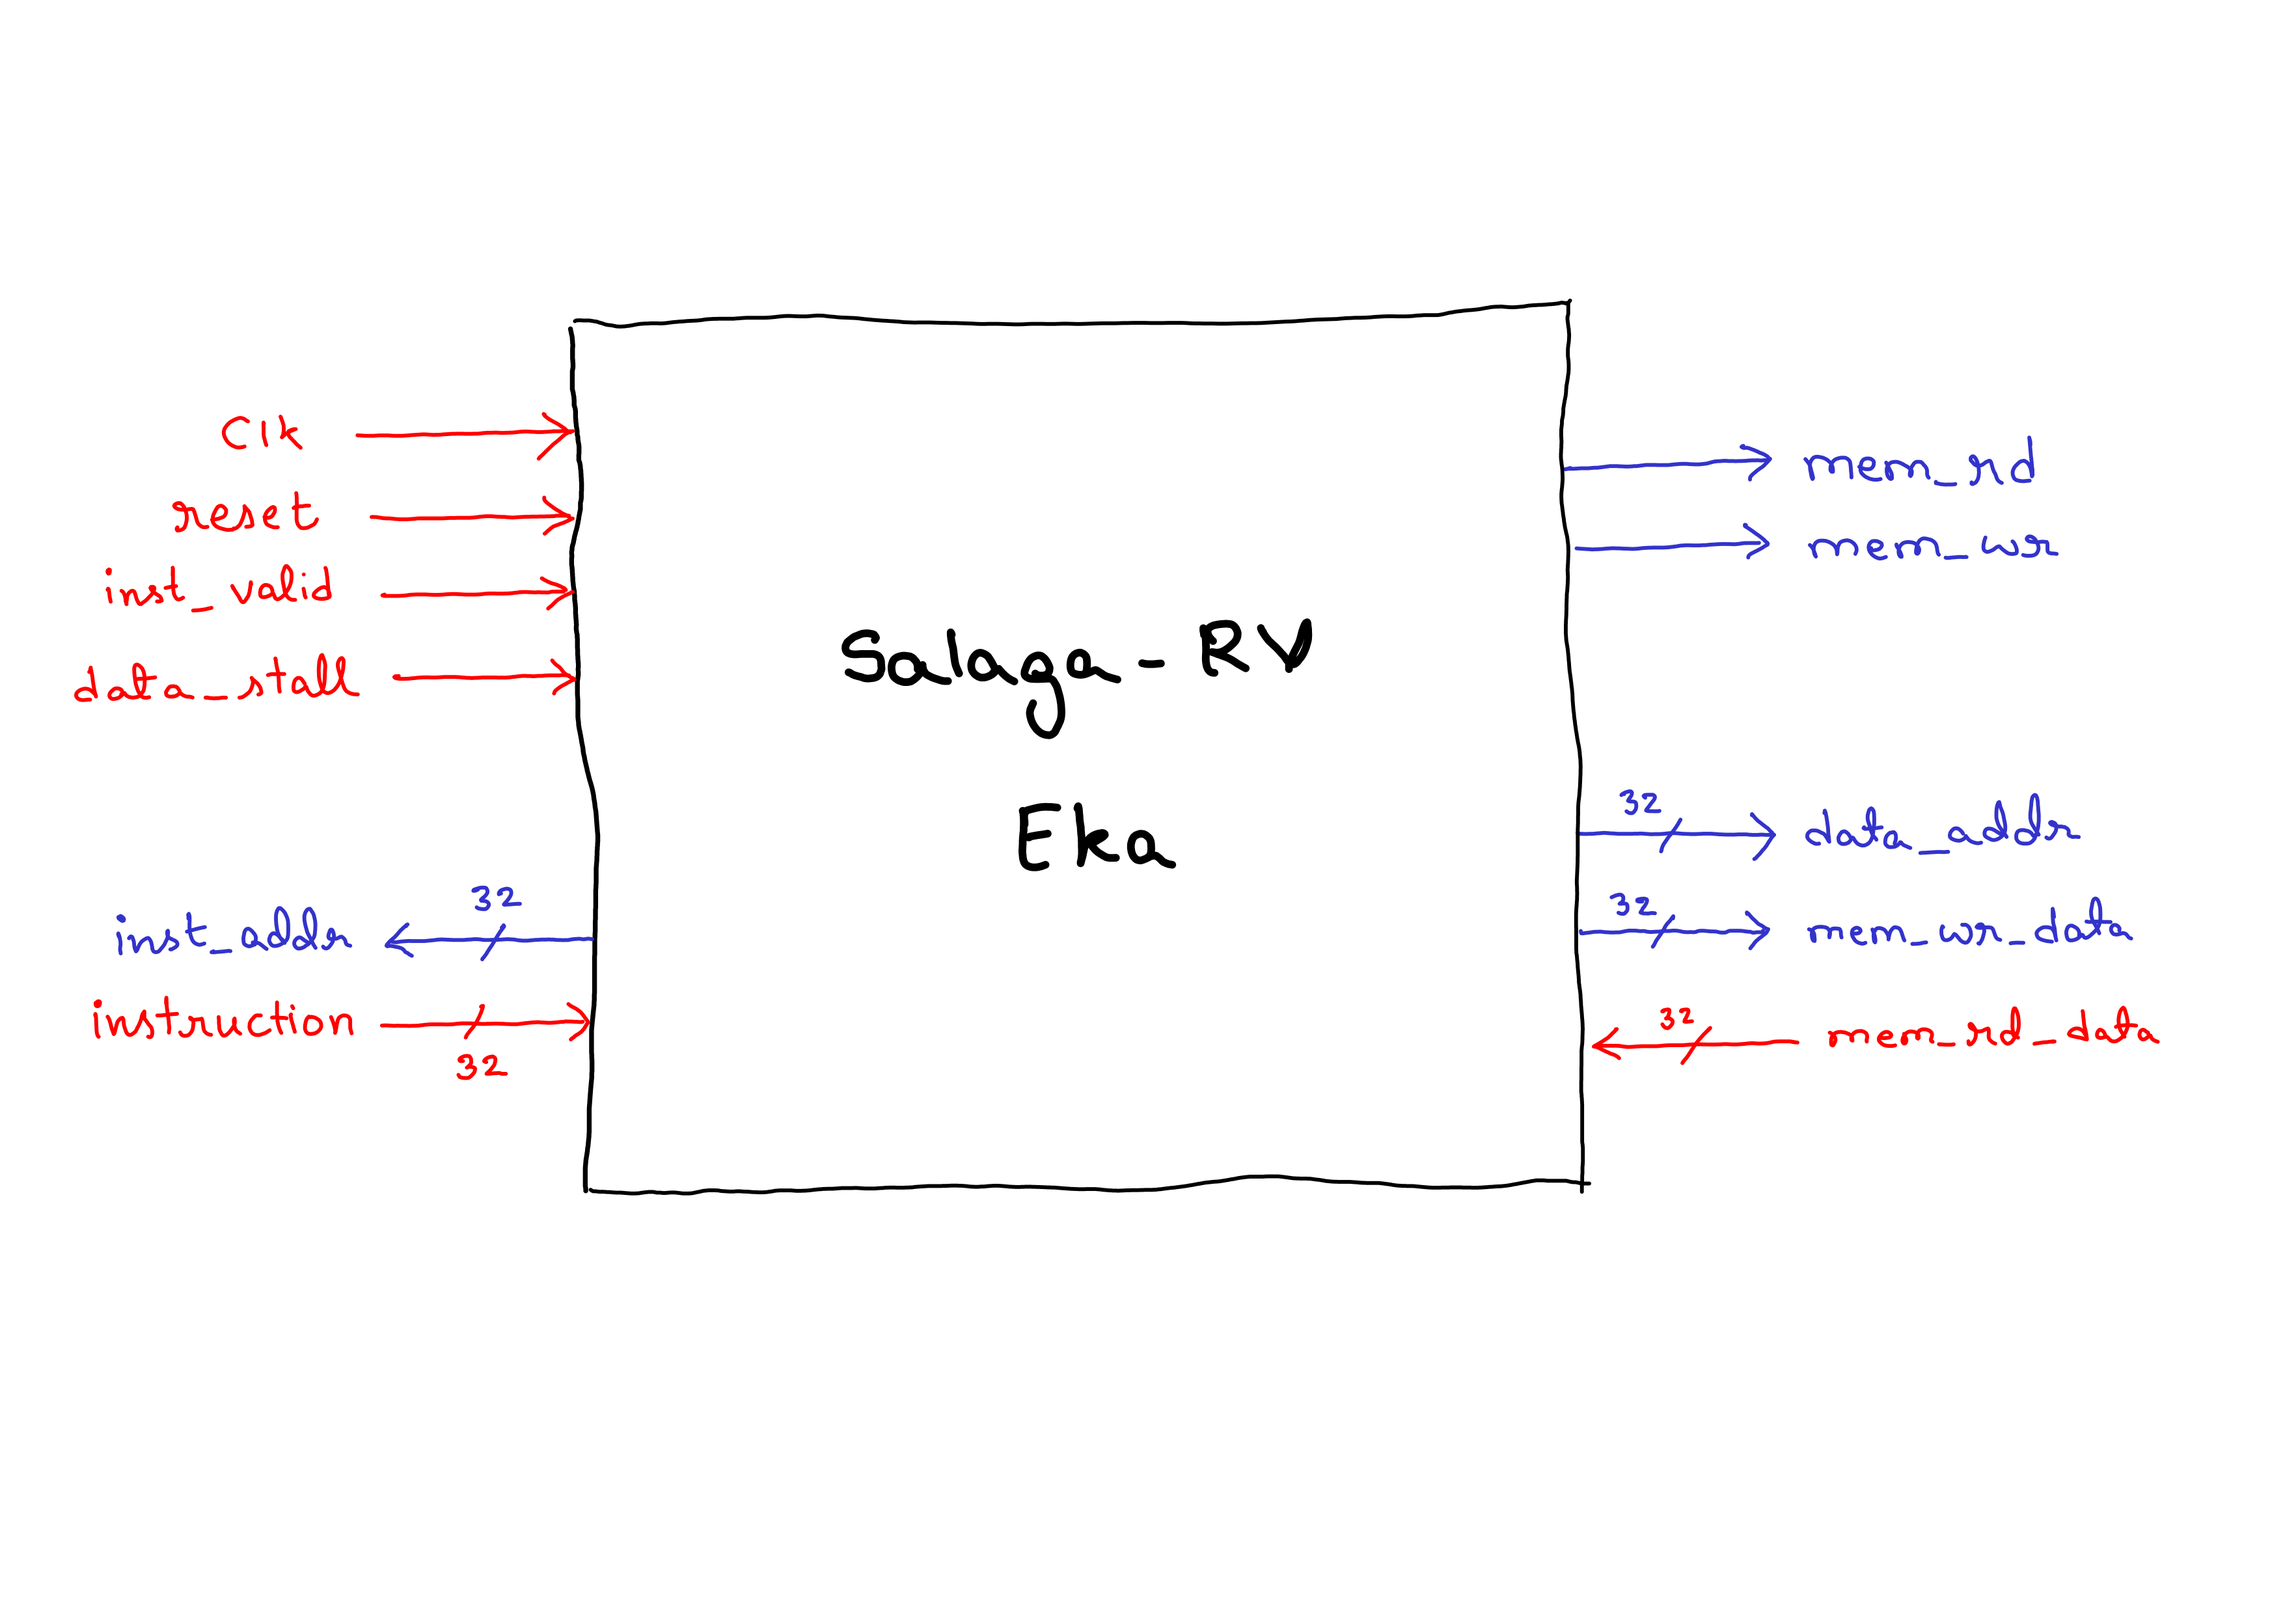
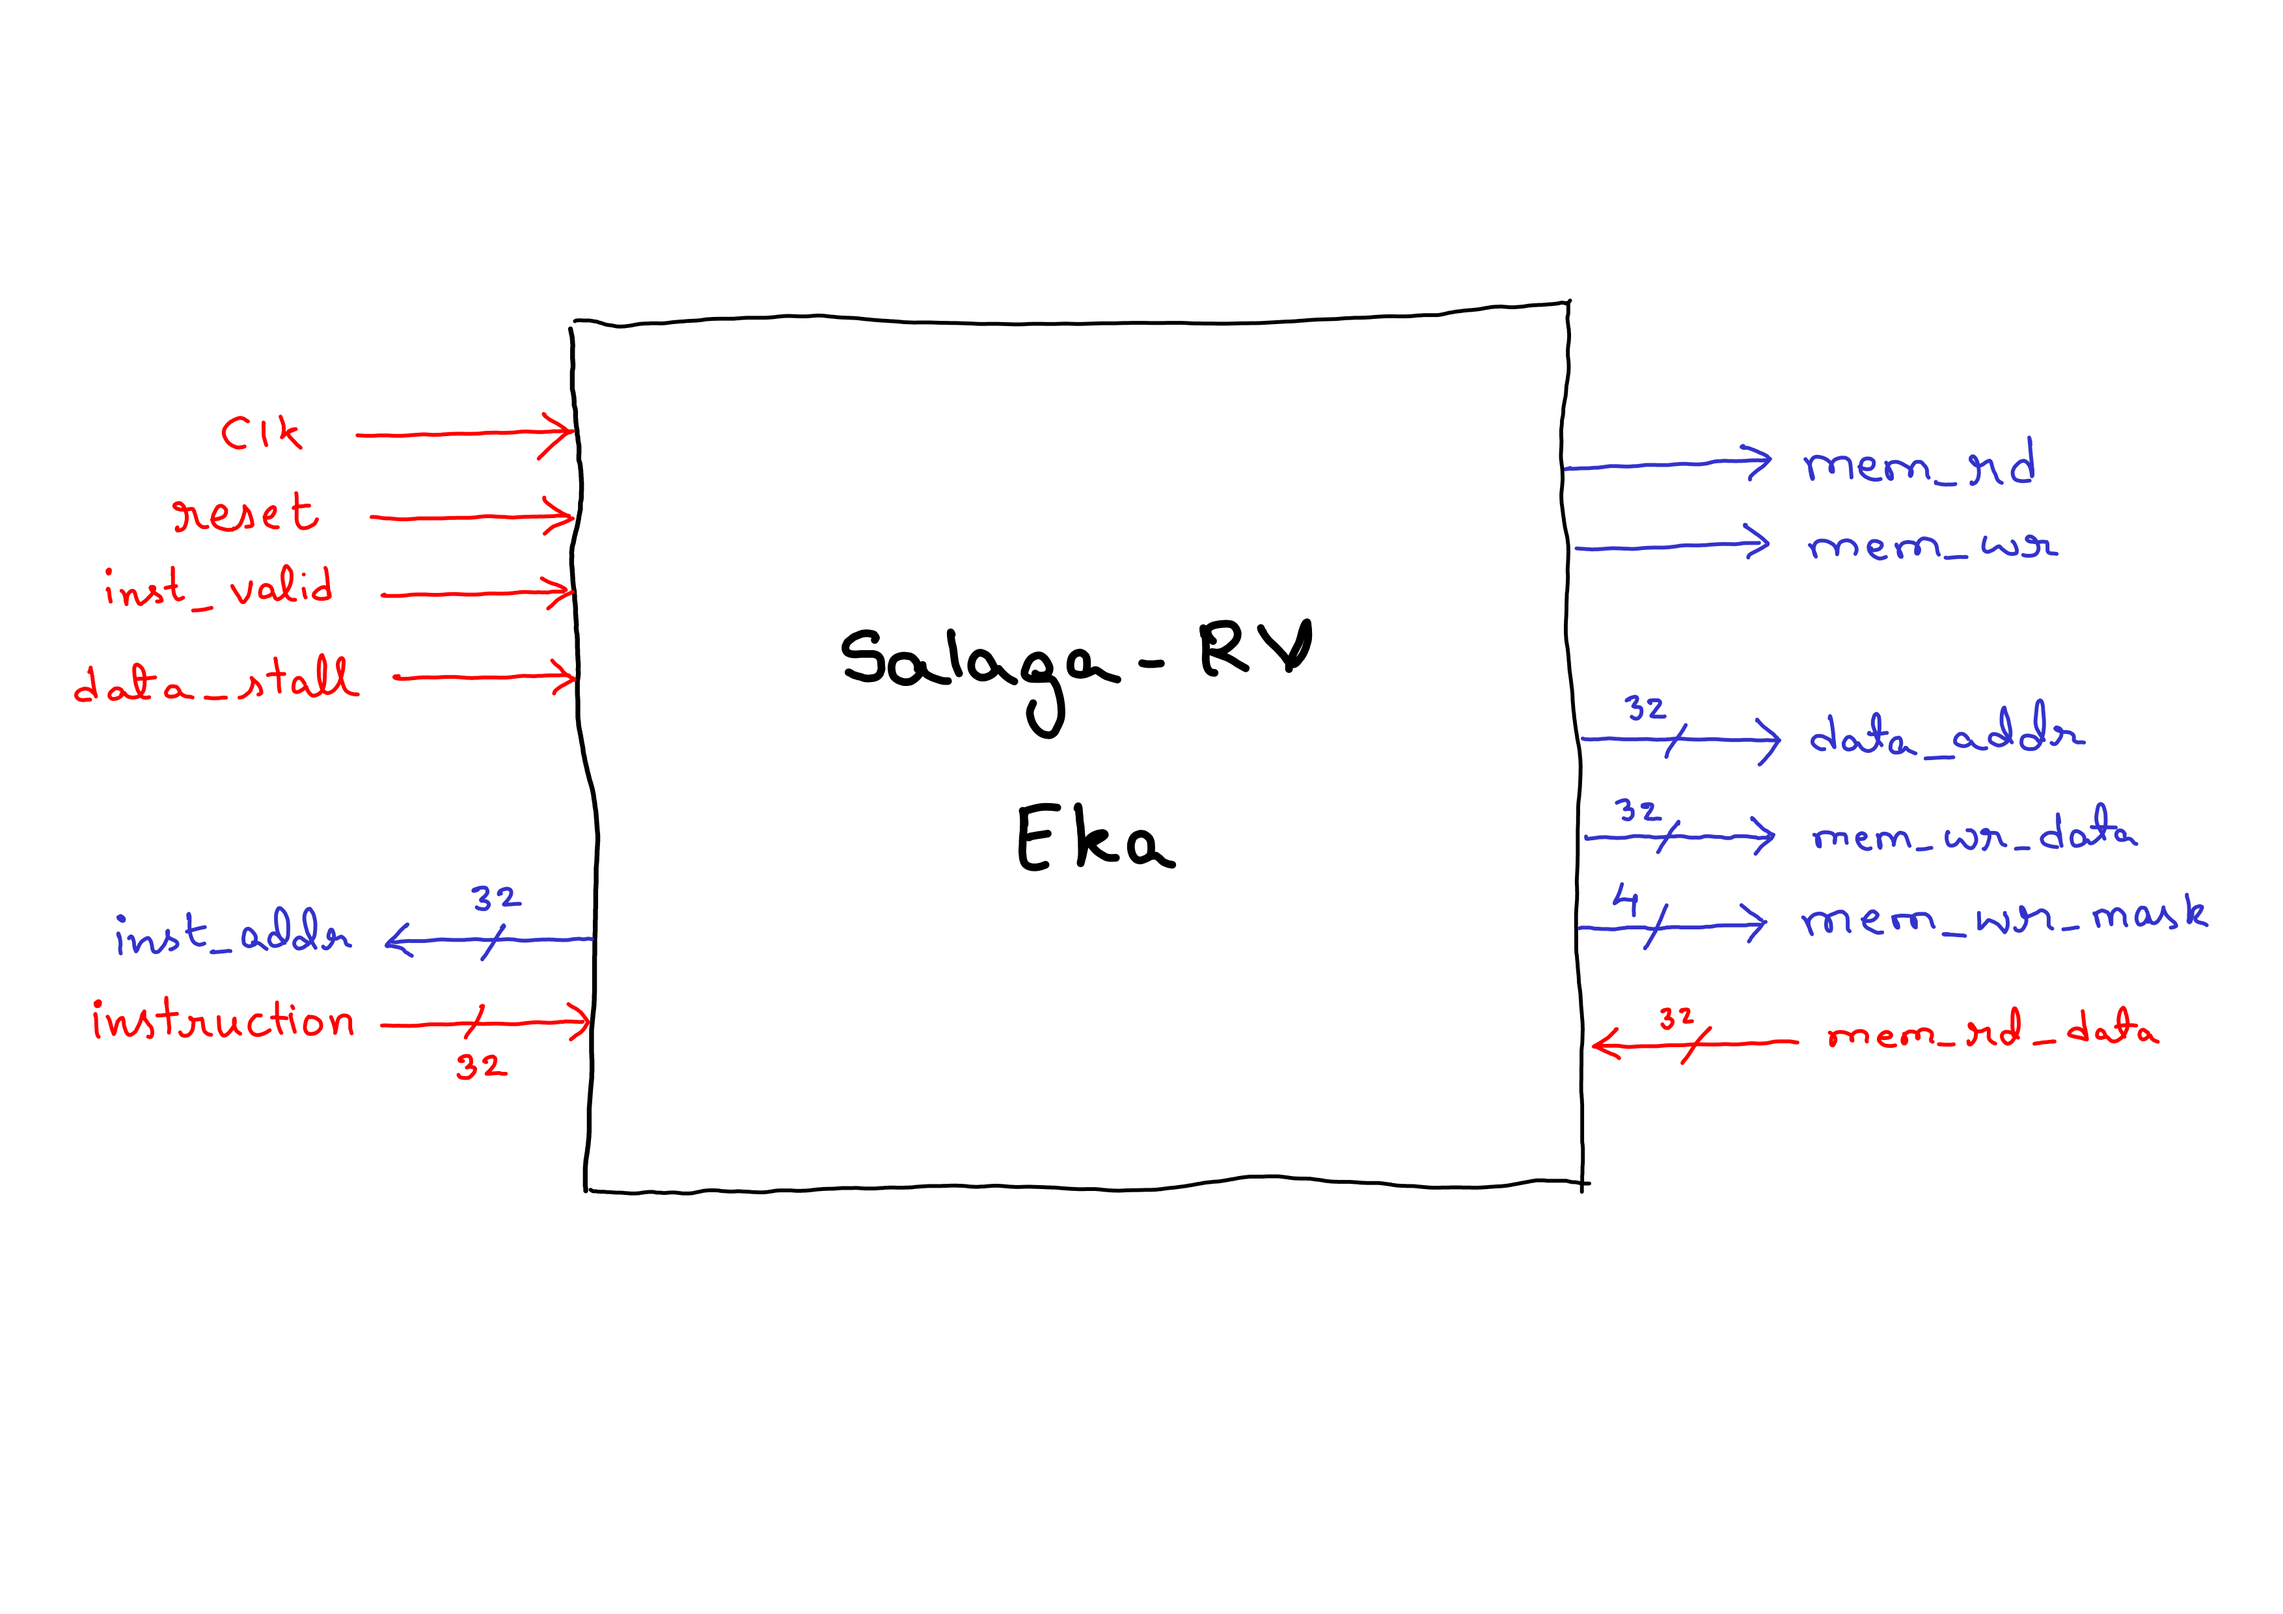
Add support for SH, and SB instructions
Added support for SH, and SB instructions.
Added a mem_wr_mask output for the CPU. Also, updated
the Memory_controller to update memory based on this
mask.

Added a simple test case in sim/src/main_sim.cpp

diff --git a/cores/Eka/sim/src/memory_controller.cpp b/cores/Eka/sim/src/memory_controller.cpp
@@ -79,11 +79,21 @@ bool Memory_controller::l1_data_cache_access(unsigned int data_addr,
 }
 
 bool Memory_controller::l1_data_cache_update(unsigned int data_addr,
-					     unsigned int mem_wr_data)
+					     unsigned int mem_wr_data,
+					     unsigned short int mem_wr_mask)
 {
 	if (this->l1_data_cache) {
 		if (data_addr/4 < this->l1_data_cache_size_in_words) {
-			this->l1_data_cache[data_addr/4] = mem_wr_data;
+			// depending on the mask, we will have to update
+			// the memory.
+			if ((mem_wr_mask & 0x1) == 0x1)
+				this->l1_data_cache[data_addr/4] = (this->l1_data_cache[data_addr/4] & 0xffffff00) | (mem_wr_data & 0x000000ff);
+			if ((mem_wr_mask & 0x2) == 0x2)
+				this->l1_data_cache[data_addr/4] = (this->l1_data_cache[data_addr/4] & 0xffff00ff) | (mem_wr_data & 0x0000ff00);
+			if ((mem_wr_mask & 0x4) == 0x4)
+				this->l1_data_cache[data_addr/4] = (this->l1_data_cache[data_addr/4] & 0xff00ffff) | (mem_wr_data & 0x00ff0000);
+			if ((mem_wr_mask & 0x8) == 0x8)
+				this->l1_data_cache[data_addr/4] = (this->l1_data_cache[data_addr/4] & 0x00ffffff) | (mem_wr_data & 0xff000000);
 		}
 		else {
 		        printf("Data address out of bound:\n");

diff --git a/cores/Eka/sim/src/main_sim.cpp b/cores/Eka/sim/src/main_sim.cpp
@@ -32,9 +32,12 @@ int main(int argc, char **argv)
 	l1_inst_cache[18] = 0b00000010101100000010001000100011; // SW rs2(11) rs1(0) 36 // expect 12288
 	l1_inst_cache[19] = 0b00000000000000000100001000010111; // AUIPC rd(4) 4
 
-	l1_inst_cache[20] = 0b00000000100000000000000011101111; // JAL rd(0) 8
-	l1_inst_cache[21] = 0b00000000000000000000000000000000; // NOP
-	l1_inst_cache[22] = 0b11111101010000001000010001100111; // JALR rd(0) -20
+	l1_inst_cache[20] = 0b00000010001100000000100110100011; // SB rs2(3) rs1(0) 51
+	l1_inst_cache[21] = 0b00000010001100000001101100100011; // SH rs2(3) rs1(0) 54
+
+	l1_inst_cache[22] = 0b00000000100000000000000011101111; // JAL rd(0) 8
+	l1_inst_cache[23] = 0b00000000000000000000000000000000; // NOP
+	l1_inst_cache[24] = 0b11111101010000001000010001100111; // JALR rd(8) -44(rs1(1)) // 1 holds 92. 92 minus 44 is 48, so 12 inst behind.
 
 	unsigned int* l1_data_cache = new unsigned int[4096];
 

diff --git a/cores/Eka/sim/include/cpu.h b/cores/Eka/sim/include/cpu.h
@@ -29,6 +29,7 @@ private:
 	unsigned int inst_addr;
 	unsigned int data_addr;
 	unsigned int mem_wr_data;
+	unsigned short int mem_wr_mask;
 	unsigned short int mem_wr;
 	unsigned short int mem_rd;
 
@@ -97,7 +98,8 @@ void CPU<CPU_mod>::mem_wr_handler(void)
 	bool stall = this
 		->memory_controller
 		->l1_data_cache_update(this->data_addr,
-				       this->mem_wr_data);
+				       this->mem_wr_data,
+				       this->mem_wr_mask);
 	this->cpu_mod->data_stall = stall;
 }
 
@@ -145,6 +147,7 @@ void CPU<CPU_mod>::tick(void)
 	this->mem_wr = this->cpu_mod->mem_wr;
 	this->data_addr = this->cpu_mod->data_addr;
 	this->mem_wr_data = this->cpu_mod->mem_wr_data;
+	this->mem_wr_mask = this->cpu_mod->mem_wr_mask;
 
 	if (this->trace && this->tracer) tracer->dump(10*this->tick_count-1);
 

diff --git a/cores/Eka/sim/include/memory_controller.h b/cores/Eka/sim/include/memory_controller.h
@@ -31,7 +31,8 @@ public:
 	bool l1_data_cache_access(unsigned int data_addr,
 				  unsigned int& mem_rd_data);
 	bool l1_data_cache_update(unsigned int data_addr,
-				  unsigned int mem_wr_data);
+				  unsigned int mem_wr_data,
+				  unsigned short int mem_wr_mask);
 	void l1_inst_cache_print(unsigned long int size_in_words);
 	void l1_data_cache_print(unsigned long int size_in_words);
 };

diff --git a/cores/Eka/README.md b/cores/Eka/README.md
@@ -22,8 +22,8 @@ The core interface is as shown below
 - [x] LW
 - [ ] LBU
 - [ ] LHU
-- [ ] SB
-- [ ] SH
+- [x] SB
+- [x] SH
 - [x] SW
 - [x] ADDI
 - [ ] SLTI
